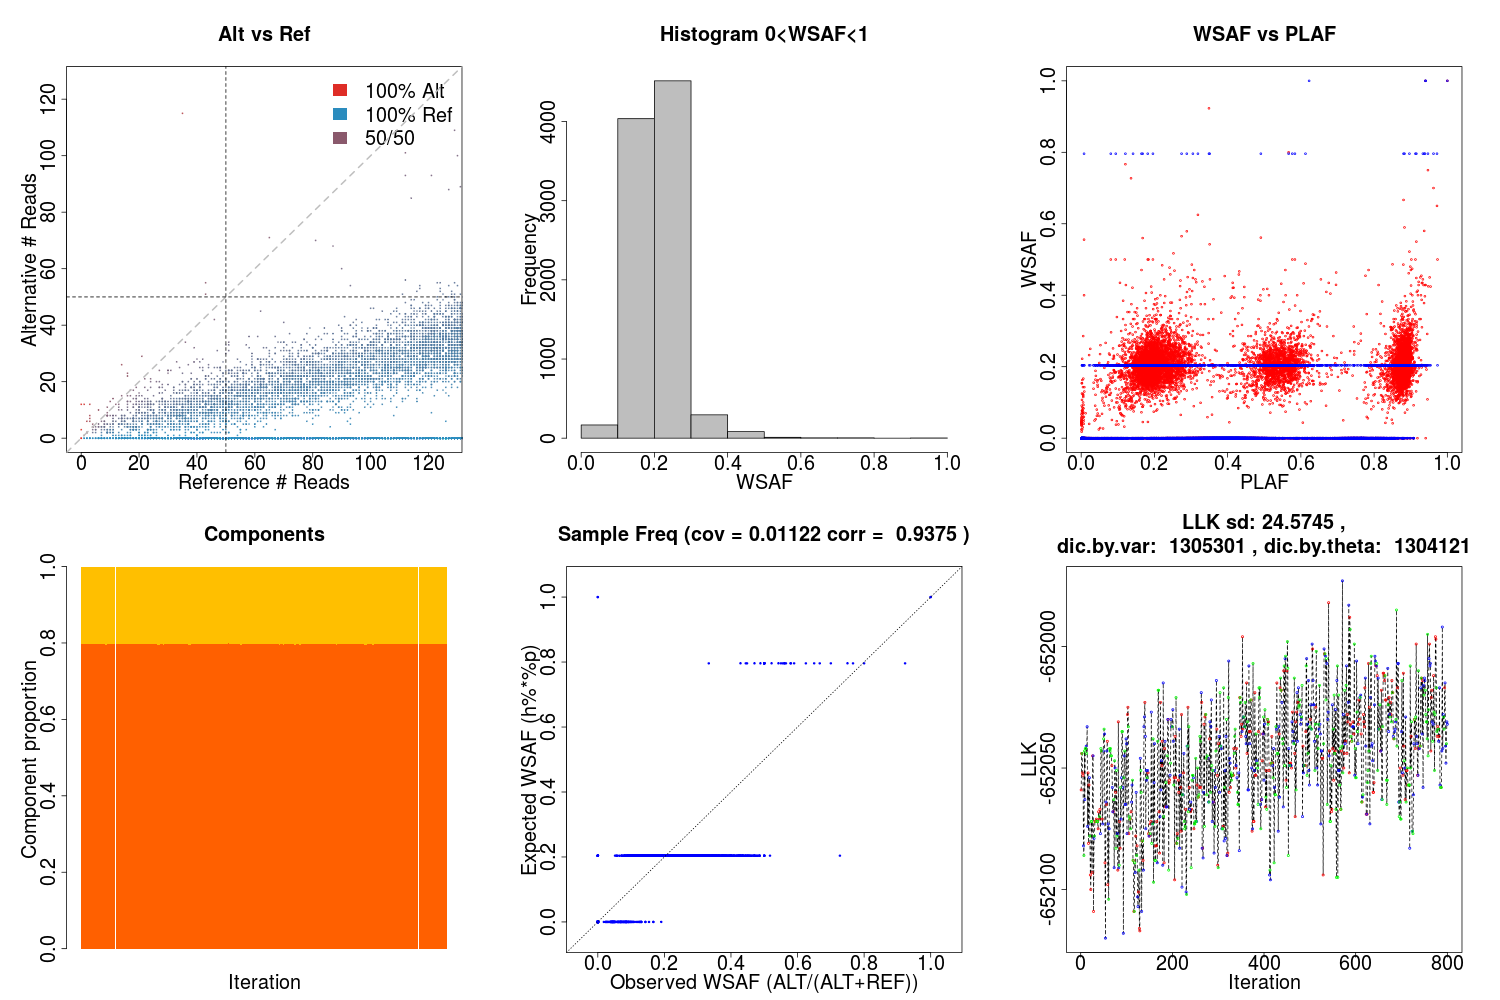
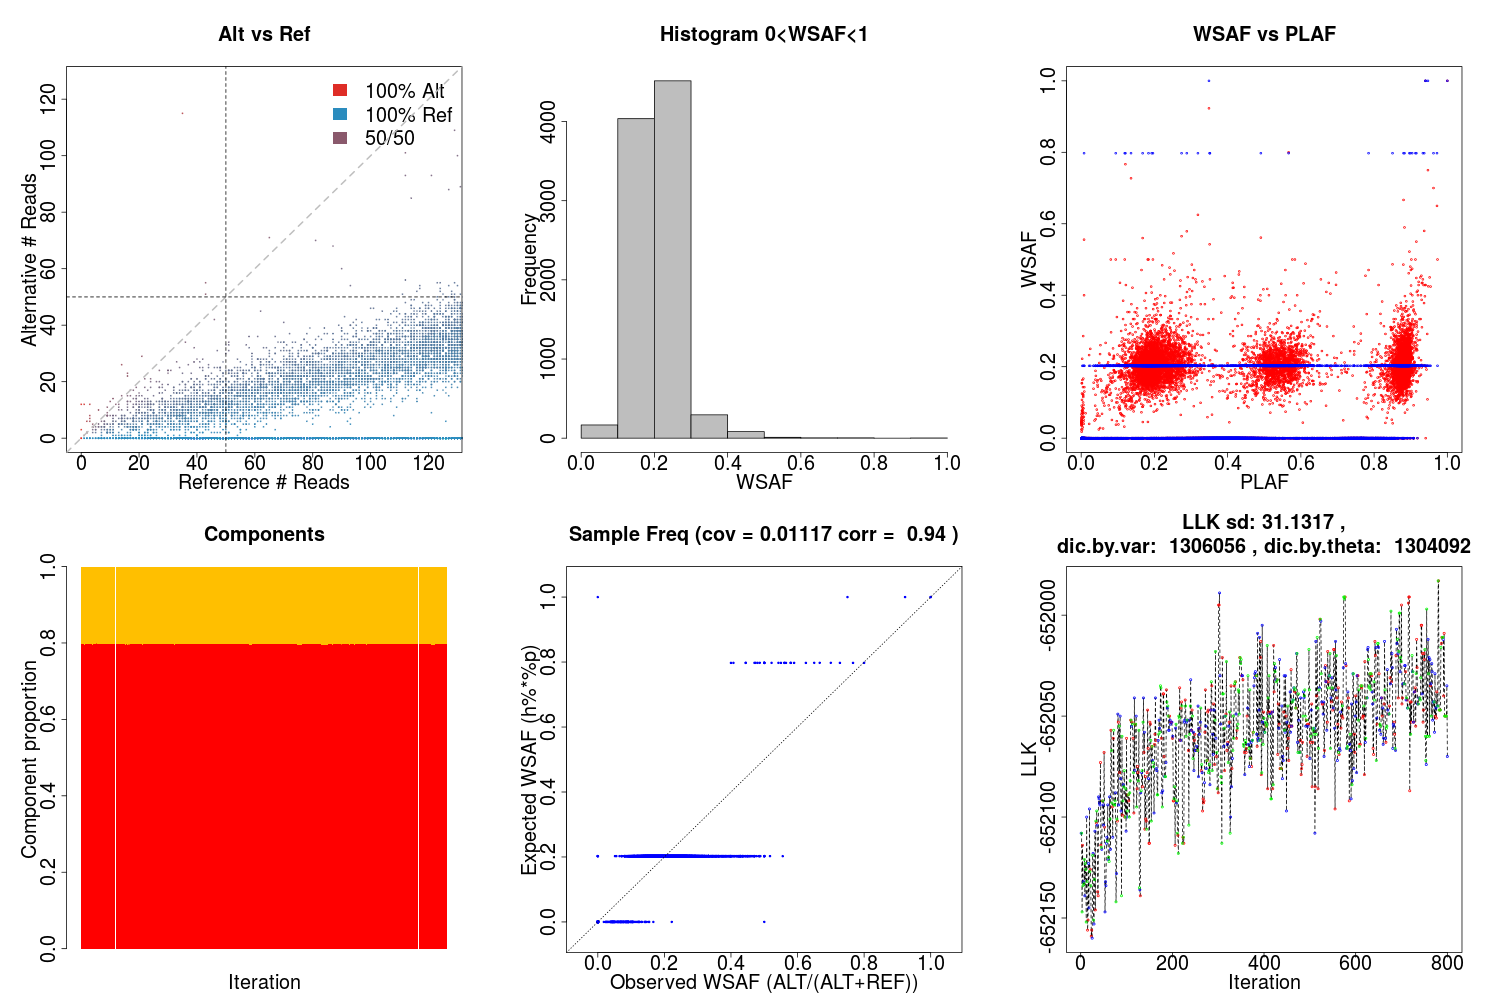
update document figures

diff --git a/docs/output.rst b/docs/output.rst
@@ -42,7 +42,7 @@ Example 1
 
     $ ./dEploid -vcf data/exampleData/PG0390-C.eg.vcf.gz \
     -plaf data/exampleData/labStrains.eg.PLAF.txt \
-    -noPanel -o PG0390-CNopanel
+    -noPanel -o PG0390-CNopanel -seed 1
     $ R --slave "--args -vcf data/exampleData/PG0390-C.eg.vcf.gz
     -plaf data/exampleData/labStrains.eg.PLAF.txt
     -dEprefix PG0390-CNopanel
@@ -68,6 +68,42 @@ This panel figure shows all allele frequencies within sample across all 14 chrom
 Example 2
 *********
 
+``dEploid`` can take its output haplotypes, and calculate the posterior probability of each deconvoluted strain with the reference panel. In this example, the reference panel includes four lab strains: 3D7 (red), Dd2 (dark orange), HB3 (orange) and 7G8 (yellow).
+
+::
+
+    $ ./dEploid -vcf data/exampleData/PG0390-C.eg.vcf.gz \
+    -plaf data/exampleData/labStrains.eg.PLAF.txt \
+    -panel data/exampleData/labStrains.eg.panel.txt \
+    -o PG0390-CPanel -seed 1 -k 3
+    $ ./dEploid -vcf data/exampleData/PG0390-C.eg.vcf.gz \
+    -plaf data/exampleData/labStrains.eg.PLAF.txt \
+    -panel data/exampleData/labStrains.eg.panel.txt \
+    -o PG0390-CPanel \
+    -painting PG0390-CPanel.hap \
+    -initialP 0.8 0 0.2 -k 3
+    $ R --slave "--args -vcf data/exampleData/PG0390-C.eg.vcf.gz
+    -plaf data/exampleData/labStrains.eg.PLAF.txt
+    -dEprefix PG0390-CPanel
+    -o PG0390-CPanel " < utilities/interpretDEploid.r
+
+.. image:: _static/PG0390-CPanel.single0.png
+   :width: 1024px
+   :alt: PG0390fwdBwd0
+
+.. image:: _static/PG0390-CPanel.single1.png
+   :width: 1024px
+   :alt: PG0390fwdBwd1
+
+.. image:: _static/PG0390-CPanel.single2.png
+   :width: 1024px
+   :alt: PG0390fwdBwd2
+
+Example 3
+*********
+
+In addition to lab mixed samples, here we show example of ``dEploid`` deconvolute field sample PD0577-C.
+
 ::
 
     $ ./dEploid -ref data/exampleData/PD0577-C_ref.trim.txt \
@@ -75,14 +111,12 @@ Example 2
     -plaf data/exampleData/asia-1_PLAF.trim.txt \
     -panel data/exampleData/asia-1_panel.trim.txt \
     -o PD0577-CPanel \
-    -k 3
+    -k 3 -seed 1484961470
 
-    $ R --slave "--args -ref data/exampleData/PD0577-C_ref.trim.txt
-    -alt data/exampleData/PD0577-C_alt.trim.txt
-    -plaf data/exampleData/asia-1_PLAF.trim.txt
-    -o PD0577-CPanel \
-    -dEprefix PD0577-CPanel
-    -inbreeding" < utilities/interpretDEploid.r
+Use ``dEploid`` to calculate the inbreeding probabilities: inbreeding (red) and outbreeding (blue).
+
+::
+
 
     $ ./dEploid -ref data/exampleData/PD0577-C_ref.trim.txt \
     -alt data/exampleData/PD0577-C_alt.trim.txt \
@@ -90,11 +124,26 @@ Example 2
     -panel data/exampleData/asia-1_panel.trim.txt \
     -o PD0577-CPanel \
     -painting PD0577-CPanel.hap \
-    -k 3 -initialP 0.5 0.25 0.25
-
+    -k 3 -inbreeding -initialP 0.25 0.5 0.25
     $ R --slave "--args -ref data/exampleData/PD0577-C_ref.trim.txt
     -alt data/exampleData/PD0577-C_alt.trim.txt
     -plaf data/exampleData/asia-1_PLAF.trim.txt
     -o PD0577-CPanel \
     -dEprefix PD0577-CPanel
     -inbreeding" < utilities/interpretDEploid.r
+
+.. image:: _static/PD0577-CPanel.interpretDEploidFigure.2.png
+   :width: 1024px
+   :alt: PD0577wsaf
+
+.. image:: _static/PD0577-CPanel.single0.inbreeding.png
+   :width: 1024px
+   :alt: PD0577fwdBwd0inbreeding
+
+.. image:: _static/PD0577-CPanel.single1.inbreeding.png
+   :width: 1024px
+   :alt: PD0577fwdBwd1inbreeding
+
+.. image:: _static/PD0577-CPanel.single2.inbreeding.png
+   :width: 1024px
+   :alt: PD0577fwdBwd2inbreeding
